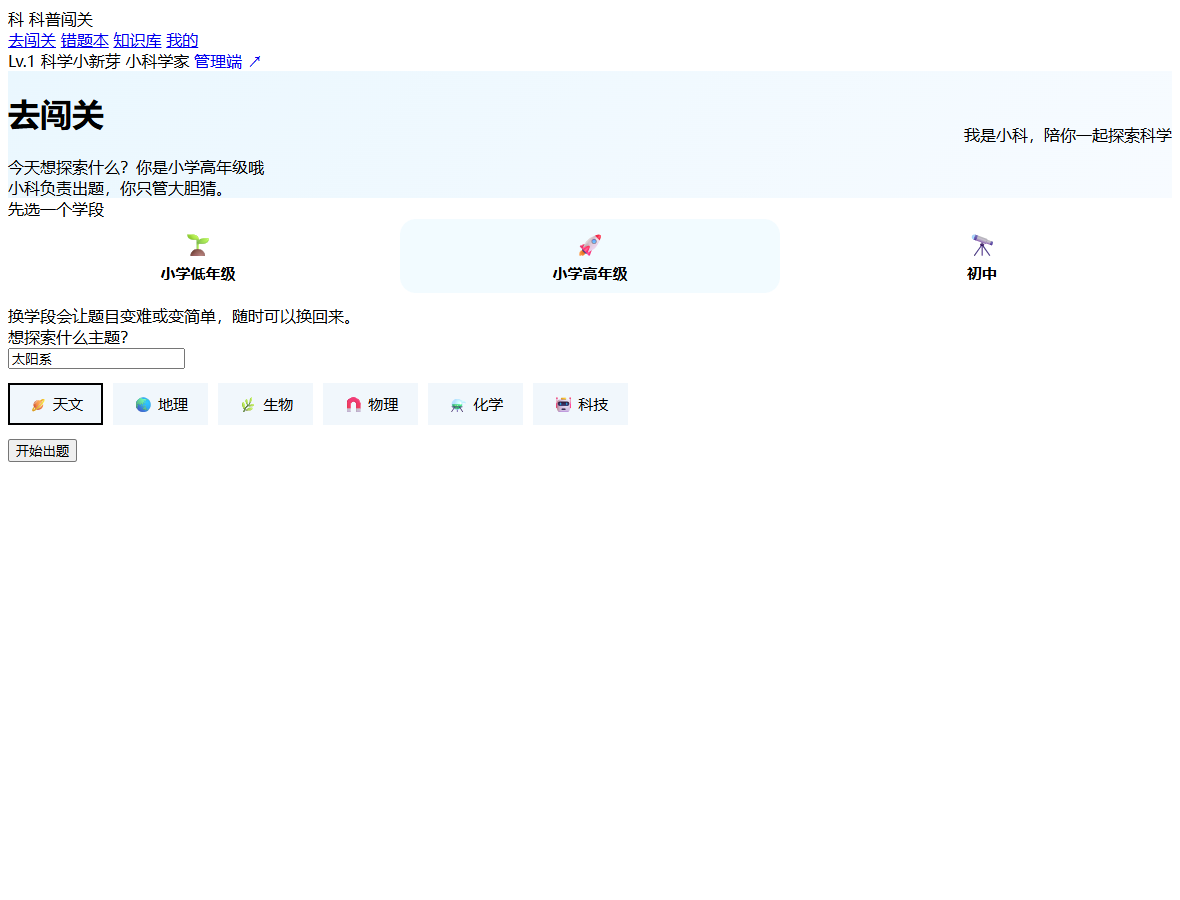
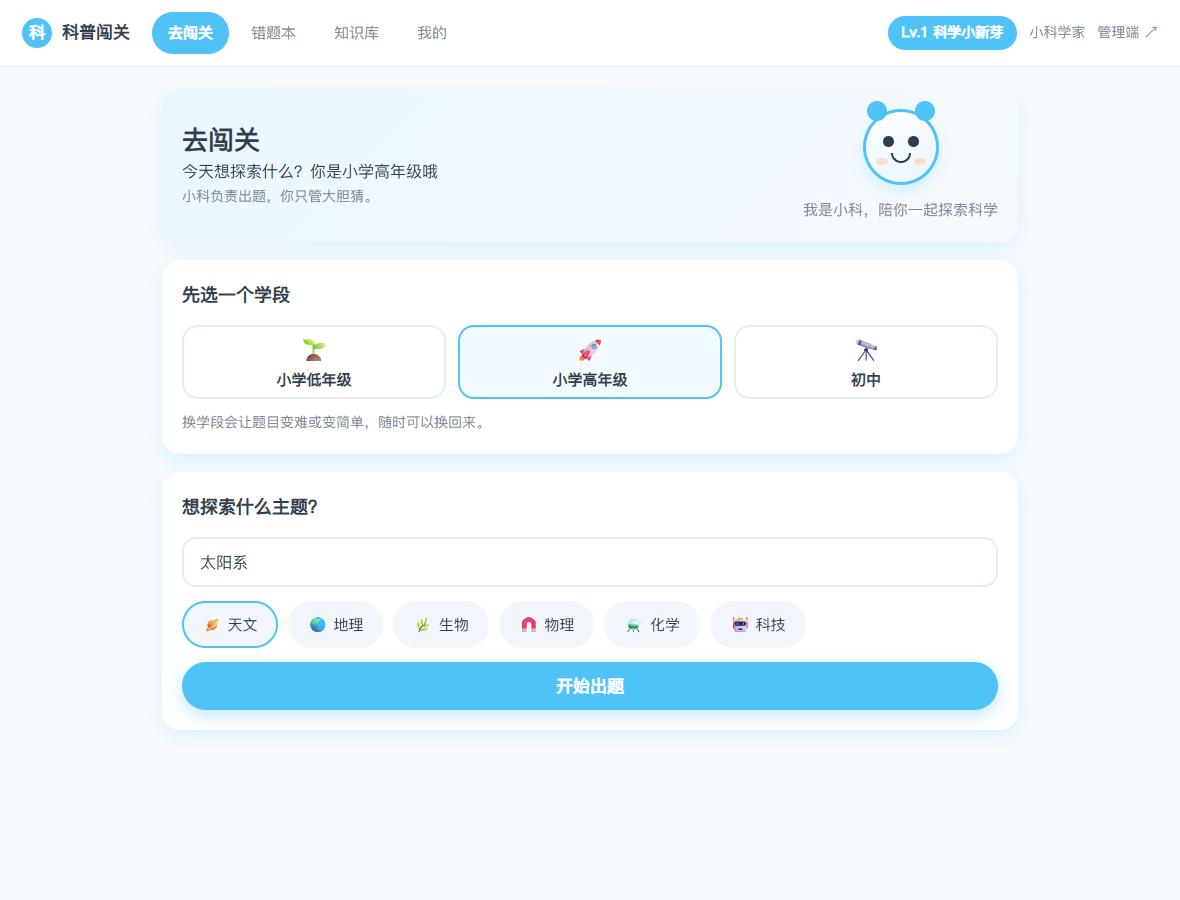
（本次通过 GitHub API 上传，合并以下 6 个本地提交）
fix(static): 静态资源 MIME 类型错误导致网页版「没渲染、点了没反应」

用户连续反馈网页版打不开：页面看着空、选项点不动。
根因是响应头，不是前端代码：

  /app/assets/app.css  → application/x-css   ← 浏览器拒收
  /app/assets/app.js   → application/x-js    ← 浏览器拒收

浏览器对样式表与脚本**严格检查 MIME 类型**，类型不合法就整段丢弃，
于是页面没有样式、脚本不执行、任何按钮都没有反应。外观上极容易
误判成「前端没渲染」，实际是服务端把 Content-Type 发错了。

原因：Python 3.13 起 mimetypes 收紧了内置映射表，不再认识 .css / .js，
StaticFiles 于是退化成 application/x-*。

修法：
- main.py 里显式注册 .css/.js/.json/.svg 等 MIME
- 抽出 TypedStaticFiles，在 guess_type 里兜底给出常见前端资源的类型，
  web 与 admin 两处挂载都改用它

验收补强（这个 bug 本该被自动抓到）：
- tools/verify_web.py 新增两项前置检查：
  1) 五个静态资源的 Content-Type 必须正确
  2) 样式表确实生效（用卡片圆角是否为 0 判定）
- 浏览器改用全新 context 打开，等同用户第一次访问

另：上一版修掉的「file:// 打开时静默无反应」也一并保留（现在会给出正确打开方式）。

---

fix(web): 修掉「打开方式不对时按钮没反应却毫无提示」，并加设备预览页

用户反馈：网页版选不了选项。实际排查结论是**打开方式问题**，不是选项本身——
如果双击 web/index.html（file:// 协议）打开，页面请求 http://127.0.0.1:8000
会被浏览器跨域拦截，而原代码把失败静默吞了：按钮点了没反应、也不报错，
使用者只能看到「点了没用」，完全无从下手。

改动：
- 启动时先判断协议：file:// 直接显示「这个页面要用服务端地址打开」，
  并给出两步正确操作（起服务、访问 http://127.0.0.1:8000/app/）
- 顺带修掉我引入的一个真 bug：boot() 被提前调用，而 state 是 const 声明的，
  会撞暂时性死区导致首页渲染不出来。已恢复为末尾调用并注明原因

- 新增 web/showcase.html：设备预览页，把真实网页版放进手机（小屏/标准）与
  平板三种外框里，用 iframe 缩放渲染，用于演示与截图
- 新增 tools/shoot_showcase.py：截设备预览图，并在手机尺寸下真点一遍
  （选选项 → 判题），确认手机壳里也能正常交互

- 把会原地改写题库文件的 shuffle_answers_part_b.py 从 backend/tests/ 移出，
  改名为 tools/shuffle_bank_options.py：tests 目录里不该放会改数据的工具，
  容易被误跑；并修正移动后的相对路径，三个题库工具均已验证可跑

---

feat(bank): 题库按学段分级（150 题），低年级与初中不再做同一批题

问题：原题库只有 60 道题、按主题分组，**不区分学段**——小学低年级和初中
[…]

diff --git a/backend/app/main.py b/backend/app/main.py
@@ -1,4 +1,4 @@
-# -*- coding: utf-8 -*-
+# -*- coding: utf-8 -*-
 """应用入口：装配路由、统一异常处理、CORS、静态管理端。
 
 启动方式（两种都行）：
@@ -8,6 +8,7 @@
 接口文档：http://127.0.0.1:8000/docs
 管理端：  http://127.0.0.1:8000/admin/
 """
+import mimetypes
 import os
 
 from fastapi import FastAPI, Request
@@ -21,6 +22,46 @@ from . import admin_db
 from . import database as db
 from . import routers
 from .config import BASE_DIR, settings
+
+# ------------------------------------------------------------------
+# 静态资源的 MIME 类型必须显式注册。
+#
+# 为什么：Python 3.13 起 mimetypes 收紧了内置映射表，不再认识 .css / .js，
+# StaticFiles 会把它们猜成 application/x-css、application/x-js；
+# 而浏览器对样式表与脚本是**严格检查 MIME** 的，类型不对就整段丢弃——
+# 表现是「页面没有样式、脚本不执行、按钮点了没反应」，
+# 从外观上极容易被误判成「前端没渲染」，实际是响应头的问题。
+# 这个坑踩过一次（网页版上线后打不开），务必保留这段。
+# ------------------------------------------------------------------
+for _ext, _type in (
+    (".css", "text/css"),
+    (".js", "text/javascript"),
+    (".mjs", "text/javascript"),
+    (".json", "application/json"),
+    (".svg", "image/svg+xml"),
+    (".woff2", "font/woff2"),
+    (".map", "application/json"),
+):
+    mimetypes.add_type(_type, _ext)
+
+
+class TypedStaticFiles(StaticFiles):
+    """静态文件：显式给出常见前端资源的 MIME，避免运行环境差异导致整页失效。"""
+
+    _EXTRA = {
+        ".css": "text/css",
+        ".js": "text/javascript",
+        ".mjs": "text/javascript",
+        ".json": "application/json",
+        ".svg": "image/svg+xml",
+        ".html": "text/html",
+    }
+
+    def guess_type(self, path):
+        ext = os.path.splitext(str(path))[1].lower()
+        if ext in self._EXTRA:
+            return self._EXTRA[ext]
+        return super().guess_type(path)
 
 app = FastAPI(
     title="科普知识闯关小程序 · 服务端",
@@ -101,9 +142,9 @@ def index():
 # 不需要小程序开发者工具，也不依赖任何构建步骤。
 _web_dir = os.path.join(os.path.dirname(BASE_DIR), "web")
 if os.path.isdir(_web_dir):
-    app.mount("/app", StaticFiles(directory=_web_dir, html=True), name="web")
+    app.mount("/app", TypedStaticFiles(directory=_web_dir, html=True), name="web")
 
 # ---------------- 管理端静态页面 ----------------
 _admin_dir = os.path.join(os.path.dirname(BASE_DIR), "admin")
 if os.path.isdir(_admin_dir):
-    app.mount("/admin", StaticFiles(directory=_admin_dir, html=True), name="admin")
+    app.mount("/admin", TypedStaticFiles(directory=_admin_dir, html=True), name="admin")

diff --git a/tools/verify_web.py b/tools/verify_web.py
@@ -1,4 +1,4 @@
-# -*- coding: utf-8 -*-
+# -*- coding: utf-8 -*-
 """网页版科普闯关系统 · 端到端验收。
 
 用系统 Chrome 无头模式把六个页面与增删改查真正点一遍，并截图。
@@ -28,13 +28,40 @@ def check(ok, msg):
 
 def main():
     os.makedirs(SHOTS, exist_ok=True)
+
+    # ---------- 0. 静态资源的 MIME 类型（必须在浏览器之前先查） ----------
+    # 背景：Python 3.13 起 mimetypes 不再认识 .css/.js，StaticFiles 会返回
+    # application/x-css 之类；浏览器对样式表与脚本严格检查 MIME，会整段丢弃，
+    # 页面看起来就像「没渲染、按钮点了没反应」。这一项专门守住它。
+    import urllib.request
+    origin = BASE.split("/app/")[0]
+    for path, want in (("/app/assets/app.css", "text/css"),
+                       ("/app/assets/app.js", "text/javascript"),
+                       ("/app/assets/main.js", "text/javascript"),
+                       ("/admin/assets/admin.css", "text/css"),
+                       ("/admin/assets/admin.js", "text/javascript")):
+        try:
+            with urllib.request.urlopen(origin + path, timeout=10) as resp:
+                ctype = resp.headers.get("Content-Type", "")
+        except Exception as exc:
+            check(False, "%s 取不到：%s" % (path, exc))
+            continue
+        check(ctype.startswith(want), "%s 的 MIME 正确（%s）" % (path, ctype))
+
     with sync_playwright() as p:
         b = p.chromium.launch(channel="chrome")
-        pg = b.new_page(viewport={"width": 1180, "height": 900})
+        # 用全新上下文，等同用户第一次访问（无缓存、无 localStorage）
+        ctx = b.new_context(viewport={"width": 1180, "height": 900})
+        pg = ctx.new_page()
         errs = []
         pg.on("pageerror", lambda e: errs.append(str(e)[:200]))
         pg.goto(BASE)
         pg.wait_for_timeout(2000)
+
+        # CSS 是否真的生效：没生效的话页面看着就是「没渲染」
+        radius = pg.evaluate(
+            "getComputedStyle(document.querySelector('.card') || document.body).borderRadius")
+        check(radius not in ("0px", ""), "样式表已生效（卡片圆角 = %s）" % radius)
 
         def shot(name):
             pg.screenshot(path=os.path.join(SHOTS, name + ".png"), full_page=True)

diff --git a/backend/tests/smoke_report.md b/backend/tests/smoke_report.md
@@ -3,8 +3,8 @@
 | 项目 | 内容 |
 | --- | --- |
 | 被测服务 | http://127.0.0.1:8000 |
-| 测试时间 | 2026-09-19 15:33:37 |
-| 测试耗时 | 2.6 秒 |
+| 测试时间 | 2026-09-19 15:50:14 |
+| 测试耗时 | 2.9 秒 |
 | 测试脚本 | `backend/tests/smoke_test.py`（仅标准库，可重复运行） |
 | 用例构成 | 40 条功能用例 + 7 条性能用例 + 9 条降级用例 |
 | 通过情况 | 49 / 49（通过率 100.0%） |
@@ -35,7 +35,7 @@
 | TC-18 | 未登录访问个人中心 | GET /api/v1/user/profile 无 Token | code=4010 | code=4010 | 通过 |
 | TC-19 | 未登录访问错题本 | GET /api/v1/wrong/questions 无 Token | code=4010 | code=4010 | 通过 |
 | TC-20 | 空错题本练习容错 | POST /api/v1/wrong/practice 错题本为空 | code=4003 | code=4003 | 通过 |
-| TC-21 | 知识库文档上传 | POST /api/v1/knowledge/documents (txt) | code=0 且返回分块数 | 文档ID=c81250cc08df 分块=1 | 通过 |
+| TC-21 | 知识库文档上传 | POST /api/v1/knowledge/documents (txt) | code=0 且返回分块数 | 文档ID=569f8afa8c5c 分块=1 | 通过 |
 | TC-22 | 知识库列表 | GET /api/v1/knowledge/documents | code=0 且包含刚上传文档 | 文档数=1 | 通过 |
 | TC-23 | 检索增强（RAG）出题 | POST /api/v1/quiz/generate 带 doc_id | code=0 且返回命中片段数 | 命中片段=1 来源=bank | 通过 |
 | TC-24 | 不支持的文件格式 | 上传 .exe 文件 | code=4001 | code=4001 | 通过 |
@@ -45,28 +45,28 @@
 | TC-28 | 管理端登录 | POST /api/v1/admin/login | code=0 且返回 Token | code=0 | 通过 |
 | TC-29 | 管理端口令错误 | POST /api/v1/admin/login 错误口令 | code=4011 | code=4011 message=账号或口令不正确 | 通过 |
 | TC-30 | 管理端未授权访问 | GET /api/v1/admin/dashboard 无 Token | code=4011 | code=4011 | 通过 |
-| TC-31 | 管理端运行看板 | GET /api/v1/admin/dashboard | code=0 且含用户/闯关/错题统计 | 用户数=143 闯关数=316 平均正确率=59.8 | 通过 |
-| TC-32 | 管理端新增题目 | POST /api/v1/admin/questions | code=0 且返回新题 ID | 新题ID=167 | 通过 |
+| TC-31 | 管理端运行看板 | GET /api/v1/admin/dashboard | code=0 且含用户/闯关/错题统计 | 用户数=154 闯关数=353 平均正确率=60.2 | 通过 |
+| TC-32 | 管理端新增题目 | POST /api/v1/admin/questions | code=0 且返回新题 ID | 新题ID=169 | 通过 |
 | TC-33 | 管理端题库查询 | GET /api/v1/admin/questions?keyword=月球绕地球一周 | code=0 且能搜到刚新增的题 | 命中=1 条，包含新题=True | 通过 |
 | TC-34 | 管理端题目参数校验 | answer 下标越界 | code=4000 | code=4000 message=正确答案下标超出选项范围 | 通过 |
 | TC-35 | 管理端修改题目 | PUT /api/v1/admin/questions/{id} | code=0 | code=0 | 通过 |
 | TC-36 | 资源池题目参与出题 | 连续出题 6 轮，看是否命中管理端资源池的题 | 至少命中一次 | 命中=True | 通过 |
 | TC-37 | 管理端删除题目 | DELETE /api/v1/admin/questions/{id} | code=0 | code=0 | 通过 |
-| TC-38 | 管理端用户列表 | GET /api/v1/admin/users | code=0 且含闯关数统计 | 用户数=143 | 通过 |
-| TC-39 | 管理端闯关记录 | GET /api/v1/admin/sessions | code=0 | 记录数=5 总数=317 | 通过 |
+| TC-38 | 管理端用户列表 | GET /api/v1/admin/users | code=0 且含闯关数统计 | 用户数=154 | 通过 |
+| TC-39 | 管理端闯关记录 | GET /api/v1/admin/sessions | code=0 | 记录数=5 总数=354 | 通过 |
 | TC-40 | 管理端操作日志留痕 | GET /api/v1/admin/logs | code=0 且包含题库操作记录 | 日志条数=20 | 通过 |
 
 ## 表 6-2 接口响应时间测试结果
 
 | 接口 | 功能 | 重复次数 | 平均响应时间(ms) | 最小(ms) | 最大(ms) |
 | --- | --- | --- | --- | --- | --- |
-| GET /api/v1/grades | 学段选项查询 | 3 | 18 | 16 | 23 |
-| POST /api/v1/user/login | 用户登录 | 3 | 24 | 14 | 32 |
-| POST /api/v1/quiz/generate | 出题（题库降级路径） | 3 | 32 | 29 | 35 |
-| POST /api/v1/quiz/submit | 判题与结算 | 3 | 32 | 24 | 42 |
-| POST /api/v1/report/generate | 复盘报告（规则降级路径） | 3 | 21 | 14 | 36 |
-| GET /api/v1/wrong/questions | 错题本查询 | 3 | 20 | 16 | 27 |
-| POST /api/v1/wrong/practice | 只练错题组卷 | 3 | 33 | 29 | 40 |
+| GET /api/v1/grades | 学段选项查询 | 3 | 15 | 14 | 16 |
+| POST /api/v1/user/login | 用户登录 | 3 | 24 | 13 | 34 |
+| POST /api/v1/quiz/generate | 出题（题库降级路径） | 3 | 25 | 14 | 30 |
+| POST /api/v1/quiz/submit | 判题与结算 | 3 | 34 | 22 | 47 |
+| POST /api/v1/report/generate | 复盘报告（规则降级路径） | 3 | 15 | 14 | 16 |
+| GET /api/v1/wrong/questions | 错题本查询 | 3 | 18 | 15 | 22 |
+| POST /api/v1/wrong/practice | 只练错题组卷 | 3 | 39 | 25 | 61 |
 
 > 说明：以上为题库降级路径（未配置大模型 Key）的实测值，不含大模型网络往返时间。配置 DeepSeek Key 后，出题接口耗时主要由模型推理决定，通常在 10～40 秒；因此小程序端设计了分档等待台词与科普轮播，把等待时间转化为学习时间（见 4.9、5.8 节）。
 
